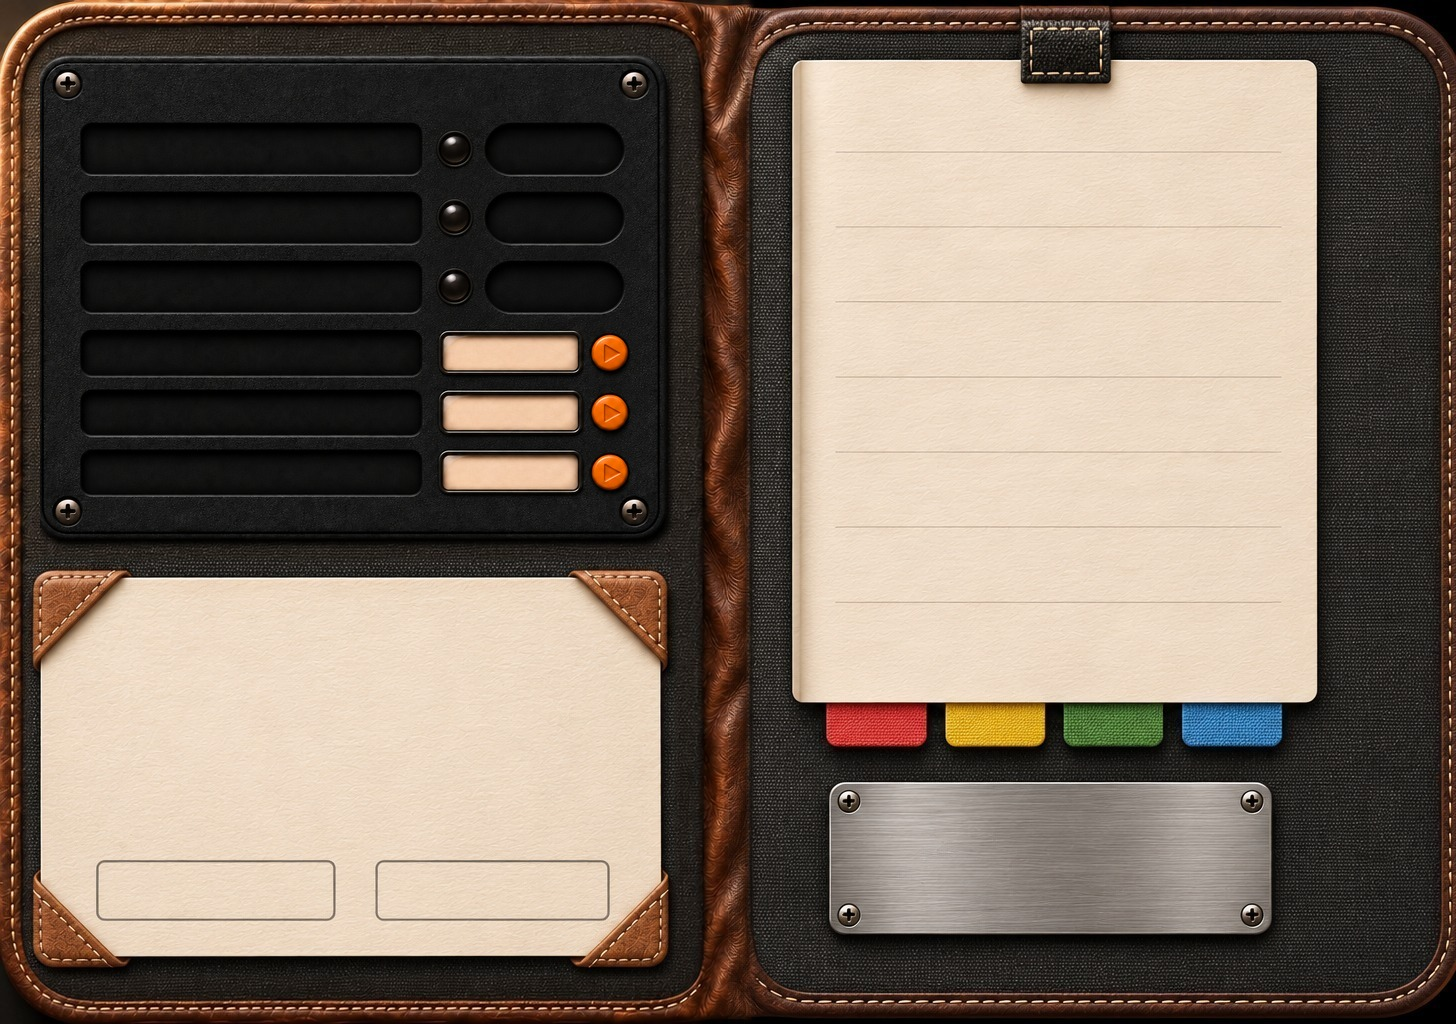
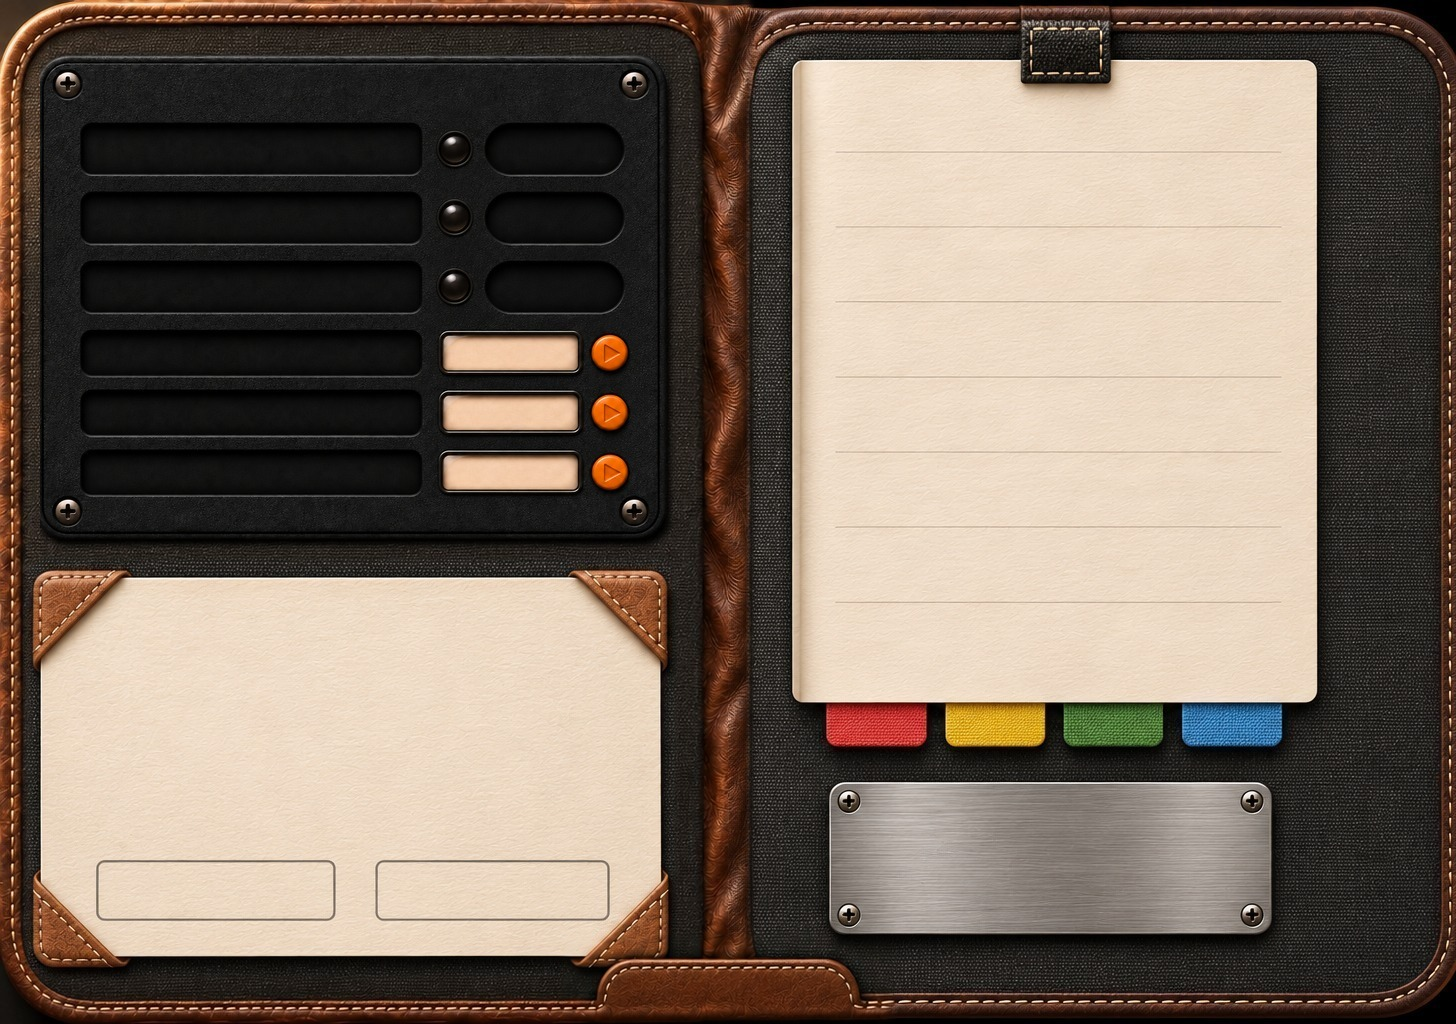
N1 (2): a stitched leather seat under the page window in each bag picture (GPT, only that patch composited back); the community's sleeve leaves it showing, the try-my-photo slip moves clear. Build 75.

Changed region(s): [[0.4018, 0.9062, 0.6181, 1.0]]

diff --git a/cameragr/UI/ClubPage.swift b/cameragr/UI/ClubPage.swift
@@ -995,6 +995,18 @@ struct ClubSleevePage: View {
             .frame(width: w, height: page.height * s, alignment: .leading)
             .clipShape(UnevenRoundedRectangle(bottomTrailingRadius: RollLibrary.boardRadius * s,
                                               topTrailingRadius: RollLibrary.boardRadius * s))
+            // The page window's leather seat (in the bag picture) shows through.
+            .mask {
+                let seat = PageDial.seat.offsetBy(dx: -ClubArt.sleeveX, dy: -page.minY).scaled(s)
+                ZStack(alignment: .topLeading) {
+                    Rectangle()
+                    RoundedRectangle(cornerRadius: 16 * s)
+                        .frame(width: seat.width, height: seat.height)
+                        .offset(x: seat.minX, y: seat.minY)
+                        .blendMode(.destinationOut)
+                }
+                .compositingGroup()
+            }
             .offset(x: ClubArt.sleeveX * s, y: page.minY * s)
             // The rings over the sleeve.
             Image(uiImage: ClubArt.rings).resizable()

diff --git a/cameragr/UI/PageDial.swift b/cameragr/UI/PageDial.swift
@@ -28,6 +28,9 @@ struct PageDial: View {
     }()
     /// The same on every spread.
     static func rect(for _: Spread) -> CGRect { rect }
+    /// The leather seat GPT drew under it in each bag picture (art units):
+    /// layers over the pages (the community's sleeve) leave it showing.
+    static let seat = CGRect(x: 572, y: 946, width: 312, height: 78)
     /// The glass, as fractions of the window picture.
     static let glass = CGRect(x: 0.03, y: 0.15, width: 0.94, height: 0.68)
 

diff --git a/cameragr/UI/OwnPhoto.swift b/cameragr/UI/OwnPhoto.swift
@@ -27,7 +27,7 @@ struct TryMyPhotoSlip: View {
 
     static let picture = UIImage(named: "kraft_slip") ?? UIImage()
     /// Beside the sleeve's page tab, on the page's foot (bag pixels).
-    static let place = CGRect(x: 826, y: 930, width: 210, height: 53)
+    static let place = CGRect(x: 880, y: 930, width: 166, height: 53)   // clear of the page window's leather seat (x 566…890)
 
     var body: some View {
         let r = Self.place

diff --git a/project/PROGRESS.md b/project/PROGRESS.md
@@ -772,3 +772,9 @@
 ## 2026-11-25 N1 第一段：导航窄版（build 74；手机连不上，未装）
 - 按用户定的方案：包下沿正中一个窄铜框小窗（GPT 画，design/community/v6/nav/window_narrow_gpt.png），三页位置大小完全一样，社区页不再变窄挪到左边。窗里只露当前页名，红针缩短扎在刻度上；翻页时整条名字纸条平滑滑动；在窗上拖动翻页（松手停在拖到的位置，快甩多走一点），点窗两端翻一页，两端有淡箭头；窗外的名字不接收点按，读屏仍可按名字选。
 - UI 测试改成点窗两端翻页；18 项 UI、89 单元测试通过。GPT：改后通过——必须改：底图下沿还没按定稿重画（窗压在页面最底一点），正在请 GPT 只在下沿正中加一块缝线皮托，我只把那一小块拼回原图，其余像素不动。
+
+## 2026-11-25 N1 第二段：小窗的皮托（build 75；手机连不上，未装）
+- GPT 在三张底图（胶卷 library_bag、社区 club_spread、设置 kit_spread）下沿正中各加一块缝线皮托；我只取正中那块（x 566…890，y 936 起，羽化 4px）拼回原图，其余像素不动。来源 design/community/v6/nav/seat/。
+- 社区页的相册在皮托处挖空（遮罩，按相册自己的坐标）；胶卷页“用我的照片试试”纸条右移让开皮托。
+- 18 项 UI、89 单元测试通过。截图页给用户：https://claude.ai/artifact/H8YVydQoYESz1vr4WwN4fY ，看板 nav-seat 等确认。
+- 正式 Worker 已部署（用户 11/25 在对话里同意）。

diff --git a/project/QUEUE.md b/project/QUEUE.md
@@ -202,3 +202,4 @@
 - 顺序（用户 11/25 追问）：N1 导航窄版先做（三页底图下沿 GPT 重画、先给用户看图），再 N2 铜环随行。
 - ◐ 11/25 N1 导航窄版代码已做（build 74），三页底图下沿的皮托在请 GPT 画，画好先给用户看。
 - ✔ 11/25 正式 Worker 已部署（C18 全部/按胶卷列表、按帖号取自己的帖子、新消息不计自己过审；两个新索引已建）。冒烟：/v1/themes 200，新接口未登录 401。
+- B20（11/25）导航窄版实际效果等你确认（看板 nav-seat，截图 https://claude.ai/artifact/H8YVydQoYESz1vr4WwN4fY）。
